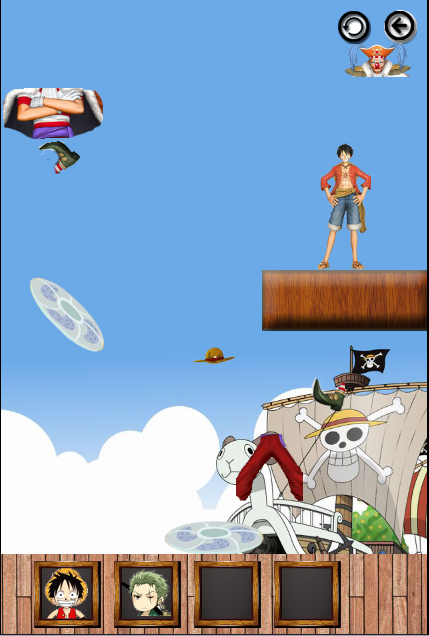
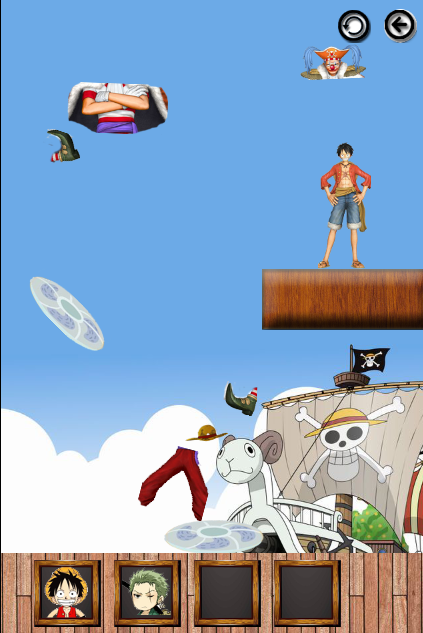
Version 2.0

diff --git a/Src/Bargie.cpp b/Src/Bargie.cpp
@@ -1,0 +1,50 @@
+#include "Bargie.h"
+
+bool Bargie::init(int t) {
+	auto str = String::createWithFormat("bd\\bargie%d_destroy1.png", t);
+	if (!this->initWithFile(str->getCString()))
+		return false;
+
+	// Create Physical Body
+	Size physical_size;
+	switch (t) {
+	case 1: {physical_size = Size(100, 50); break; }
+	case 2: {physical_size = Size(150, 70); break; }
+	case 3: {physical_size = Size(50, 60); break; }
+	case 4: {physical_size = Size(50, 50); break; }
+	case 5: {physical_size = Size(100, 100); break; }
+	}
+	PhysicsBody* physics_body;
+	physics_body = PhysicsBody::createBox(physical_size);
+	this->setPhysicsBody(physics_body);
+	this->getPhysicsBody()->setGravityEnable(false);
+
+	auto width = this->getContentSize().width;
+	auto height = this->getContentSize().height;
+	for (int i = 1; i <= 7; i++) {
+		str = String::createWithFormat("bd\\bargie%d_destroy%d.png", t, i);
+		vec.pushBack(SpriteFrame::create(str->getCString(), Rect(0, 0, width, height)));
+	}
+	
+	return true;
+}
+
+void Bargie::destroyAnimation() {
+	this->setContentSize(this->vec.at(0)->getOriginalSize());
+	this->getPhysicsBody()->setEnabled(false);
+	this->setVelocity(0, 0);
+	auto animation = Animation::createWithSpriteFrames(this->vec, 0.1);
+	auto animate = Animate::create(animation);
+	auto smooth = FadeOut::create(1.0);
+	auto cb = CallFunc::create(CC_CALLBACK_0(Bargie::removeFromParent, this));
+	auto seq = Sequence::create(animate, smooth, cb, nullptr);
+	this->runAction(seq);
+}
+
+Bargie* Bargie::create(int t) {
+	auto bargie = new Bargie();
+	if (bargie != nullptr && bargie->init(t)) {
+		bargie->autorelease();
+	}
+	return bargie;
+}

diff --git a/Src/GameScene2.cpp b/Src/GameScene2.cpp
@@ -22,33 +22,25 @@ bool GameScene2::init()
 	luffy->setPosition(wood->getPositionX(),
 		wood->getPositionY() + wood->getContentSize().height/2 + luffy->getContentSize().height/2);
 
-	auto bagie1 = Barrier::create("Bagie1.png",0);
+	auto bagie1 = Bargie::create(1);
 	bagie1->setPosition(50,860);
+	this->bc.addBarrier(bagie1);
 
-	auto bagie2 = Barrier::create("Bagie2.png",0);
+	auto bagie2 = Bargie::create(2);
 	bagie2->setPosition(visible_size.width-50,780);
+	this->bc.addBarrier(bagie2);
 
-	auto bagie3 = Barrier::create("Bagie3.png",0);
+	auto bagie3 = Bargie::create(3);
 	bagie3->setPosition(50,560);
+	this->bc.addBarrier(bagie3);
 
-	auto bagie4 = Barrier::create("Bagie4.png",0);
+	auto bagie4 = Bargie::create(4);
 	bagie4->setPosition(visible_size.width-50,360);
+	this->bc.addBarrier(bagie4);
 
-	auto bagie5 = Barrier::create("Bagie5.png",0);
+	auto bagie5 = Bargie::create(5);
 	bagie5->setPosition(50,250);
-
-	/*auto left = MoveBy::create(5, ccp(-visible_size.width+100, 0));
-	auto right = MoveBy::create(5, ccp(visible_size.width-100, 0));
-	auto sequence1 = Sequence::create(left, right, NULL);
-	auto sequence2 = Sequence::create(right, left, NULL);
-	auto repeat1 = RepeatForever::create(sequence1);
-	auto repeat2 = RepeatForever::create(sequence2);
-
-	bagie1->runAction(repeat2);
-	bagie2->runAction(repeat1);
-	bagie3->runAction(repeat2);
-	bagie4->runAction(repeat1);
-	bagie5->runAction(repeat2);*/
+	this->bc.addBarrier(bagie5);
 
 	bagie1->setVelocity(100, 0);
 	bagie2->setVelocity(-100,0);

diff --git a/Src/ZoroPower.cpp b/Src/ZoroPower.cpp
@@ -31,7 +31,7 @@ bool ZoroPower::onTouchBegan(Touch *pTouch, Event *pEvent) {
 	Size s = target->getContentSize();
 	Rect rect = Rect(0, 0, s.width, s.height);
 	if (rect.containsPoint(locationInNode)) {
-		auto progress = ProgressTo::create(10, 100);
+		auto progress = ProgressTo::create(20, 100);
 		auto timer = ProgressTimer::create(Sprite::create("power_cd.png"));
 		timer->setType(ProgressTimer::Type::RADIAL);
 		timer->setReverseProgress(true);
@@ -55,7 +55,8 @@ bool ZoroPower::onTouchBegan(Touch *pTouch, Event *pEvent) {
 		auto move_to3 = MoveTo::create(0.3,
 			Vec2(cur_layer->getContentSize().width + 320, cur_layer->getContentSize().height / 2));
 		auto func2 = CallFunc::create(CC_CALLBACK_0(ZoroPower::animationcallBack2, this));
-		auto seq2 = Sequence::create(move_to1, move_to2, move_to3, func2, nullptr);
+		auto func3 = CallFunc::create(CC_CALLBACK_0(ZoroPower::animationcallBack3, this));
+		auto seq2 = Sequence::create(move_to1, func3, move_to2, move_to3, func2, nullptr);
 		ani_bg->runAction(seq2);
 		cur_layer->addChild(ani_bg);
 
@@ -73,4 +74,9 @@ void ZoroPower::animationCallBack() {
 void ZoroPower::animationcallBack2() {
 	auto cur_layer = Director::getInstance()->getRunningScene()->getChildByTag(0);
 	cur_layer->removeChildByName("power_bg");
+}
+
+void ZoroPower::animationcallBack3() {
+	auto cur_layer = static_cast<BasicScene*>(Director::getInstance()->getRunningScene()->getChildByTag(0));
+	cur_layer->getBarrierController()->destroyAll();
 }

diff --git a/Src/BasicScene.cpp b/Src/BasicScene.cpp
@@ -104,7 +104,7 @@ void BasicScene::onWinning()
 	auto actor = static_cast<Actor*>(this->getChildByTag(1));
 	hat = Hat::create(hat_num);
 	hat->setPosition(actor->getWinningPoint().x, actor->getWinningPoint().y + 10);
-	hat->getPhysicsBody()->setGravityEnable(false);
+	hat->getPhysicsBody()->setEnabled(false);
 	hat->comeOut();
 	this->addChild(hat);
 
@@ -182,4 +182,8 @@ void BasicScene::onReplayCallBack(Ref* pSender)
 BasicScene::~BasicScene()
 {
 	cc.clean();
+}
+
+BarrierController* BasicScene::getBarrierController() {
+	return &this->bc;
 }

diff --git a/Src/BarrierController.h b/Src/BarrierController.h
@@ -1,0 +1,21 @@
+#ifndef BARRIERCONTROLLER_H
+#define BARRIERCONTROLLER_H
+
+#include "cocos2d.h"
+#include "Barrier.h"
+
+USING_NS_CC;
+
+class BarrierController {
+private:
+	Vector<Barrier*> vec;
+public:
+	BarrierController() {}
+	~BarrierController() { vec.clear(); }
+
+	void addBarrier(Barrier* b);
+	void destroyAll();
+	void checkHitAll();
+};
+
+#endif

diff --git a/Src/BarrierController.cpp b/Src/BarrierController.cpp
@@ -1,0 +1,16 @@
+#include "BarrierController.h"
+
+void BarrierController::addBarrier(Barrier* b) {
+	this->vec.pushBack(b);
+}
+
+void BarrierController::destroyAll() {
+	for (int i = 0; i < vec.size(); i++) {
+		vec.at(i)->destroyAnimation();
+	}
+}
+
+
+void BarrierController::checkHitAll() {
+
+}

diff --git a/Src/GameScene4.cpp b/Src/GameScene4.cpp
@@ -11,6 +11,7 @@ bool GameScene4::init()
 	auto visible_size = Director::getInstance()->getVisibleSize();
 
 	auto bg = Sprite::create("WindComesStageBG1.png");
+	bg->setLocalZOrder(-2);
 	auto hat = Hat::create(2);
 	auto fan = Fan::create(Fan::NORTH);
 	auto fan2 = Fan::create(Fan::SOUTH_EAST);

diff --git a/Src/GameScene2.h b/Src/GameScene2.h
@@ -4,6 +4,7 @@
 #include "BasicScene.h"
 #include "LuffyPower.h"
 #include "ZoroPower.h"
+#include "Bargie.h"
 
 class GameScene2 : public BasicScene
 {
